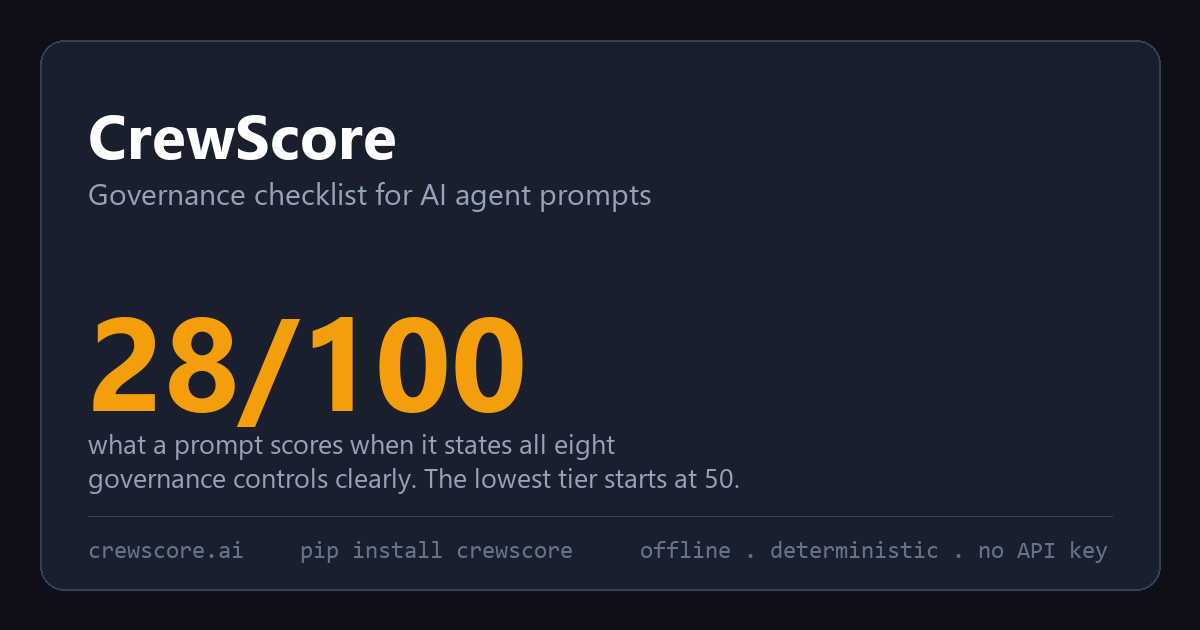
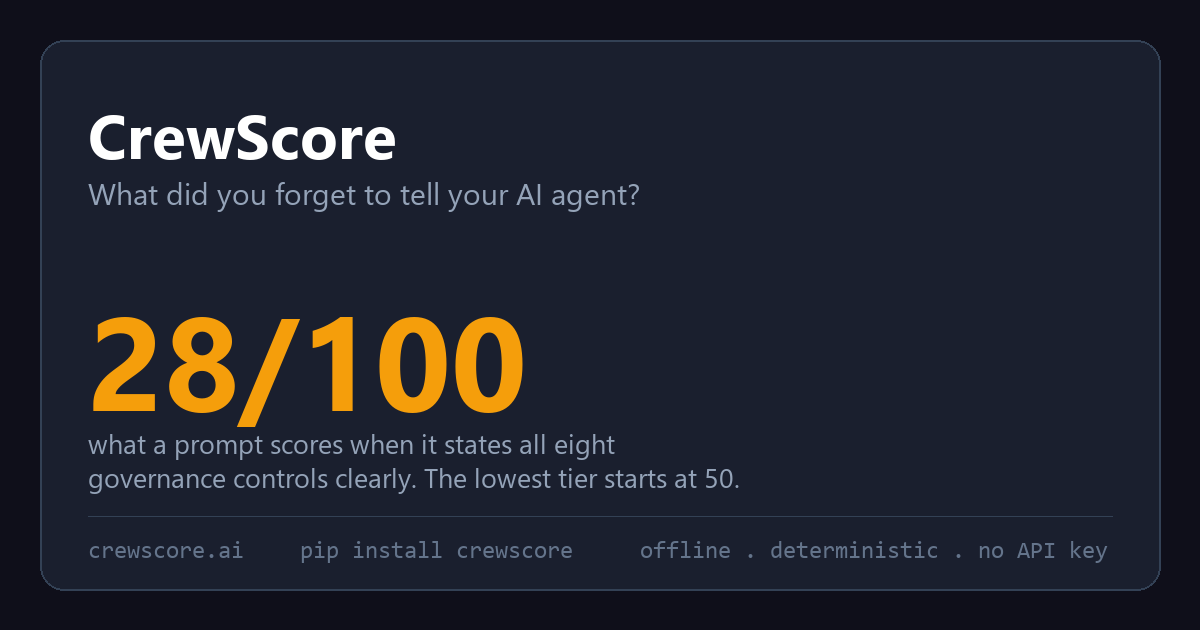
feat(copy): lead with the failure modes, not the compliance category
'Governance checklist' is compliance-department language. The people who
ship agents do not worry about governance - they worry about the agent
doing something expensive, destructive or embarrassing. Our eight
dimensions ARE exactly those failure modes; we were describing concrete
fears in words only an auditor uses.

It is also the more honest framing, not the looser one: 'governance'
implies enterprise assurance we explicitly do not provide, while 'which
failure modes did you forget to write a rule for' is literally what the
regexes check.

New headline across site, README, package metadata, social card and OG
tags: 'What did you forget to tell your AI agent?' with the modes named -
prompt injection, hallucination, runaway cost, missing human approval, no
stop condition.

Nothing about the honesty constraints moved. Coverage-not-quality is still
in the hero, still under the score ring, still in the charter. The 28/100
proof and the validation link are untouched. The tests that pinned the old
wording now pin the substance instead: the failure modes must be named, the
headline must not call the number a score, and the description must not
promise to prevent, protect, secure or guarantee anything.

Changed region(s): [[0.0617, 0.2714, 0.555, 0.3317]]

diff --git a/index.html b/index.html
@@ -3,9 +3,9 @@
 <head>
 <meta charset="UTF-8">
 <meta name="viewport" content="width=device-width, initial-scale=1.0">
-<meta name="description" content="CrewScore - a governance checklist for AI agent prompts. See which controls your prompt states and which it never mentions, in your browser. Coverage, not a quality ranking. No signup. No install.">
-<meta property="og:title" content="CrewScore - governance checklist for agent prompts">
-<meta property="og:description" content="Checklist coverage for agent system prompts: which governance controls the text states and which it does not. Coverage, not a quality ranking. Not a red-team. No signup, no API key.">
+<meta name="description" content="Paste an AI agent system prompt and see which failure modes it never guards against - prompt injection, hallucination, runaway cost, missing human approval. Free, offline, no signup, no API key.">
+<meta property="og:title" content="What did you forget to tell your AI agent?">
+<meta property="og:description" content="Paste a system prompt, see which of eight failure modes it never guards against: prompt injection, hallucination, runaway cost, missing human approval. Offline and deterministic. Not a red-team.">
 <meta property="og:url" content="https://crewscore.ai">
 <meta property="og:type" content="website">
 <meta property="og:site_name" content="CrewScore">
@@ -14,7 +14,7 @@
 <meta property="og:image:height" content="630">
 <meta property="og:image:alt" content="CrewScore. 28/100 - what a prompt scores when it states all eight governance controls clearly. The lowest tier starts at 50.">
 <meta name="twitter:card" content="summary_large_image">
-<meta name="twitter:title" content="CrewScore - governance checklist for agent prompts">
+<meta name="twitter:title" content="What did you forget to tell your AI agent?">
 <meta name="twitter:description" content="A prompt that states all eight governance controls clearly scores 28/100 on our own tool. Coverage, not a quality ranking - and we published why.">
 <meta name="twitter:image" content="https://crewscore.ai/docs/social-card.png">
 <link rel="canonical" href="https://crewscore.ai/">
@@ -23,7 +23,7 @@
 <link rel="preconnect" href="https://fonts.googleapis.com">
 <link rel="preconnect" href="https://fonts.gstatic.com" crossorigin>
 <link href="https://fonts.googleapis.com/css2?family=IBM+Plex+Mono:wght@400;500;600;700&family=IBM+Plex+Sans:wght@400;500;600;700&display=swap" rel="stylesheet">
-<title>CrewScore - Free governance checklist for AI agent prompts (no install)</title>
+<title>CrewScore - what did you forget to tell your AI agent? (free, no install)</title>
 <style>
 :root{
   --bg:#0a0c0b;
@@ -502,9 +502,9 @@ body.sheet-open{overflow:hidden}
   </header>
 
   <section class="hero">
-    <div class="eyebrow">Governance checklist for agent instructions</div>
-    <h2>See which governance rules your prompt does not state</h2>
-    <p class="sub">Paste a prompt in your browser, get the eight controls it states and the ones it never mentions. Same open rules as the CLI. <strong>Not a red-team.</strong>
+    <div class="eyebrow">Free - runs in your browser - nothing leaves the page</div>
+    <h2>What did you forget to tell your AI agent?</h2>
+    <p class="sub">Paste your system prompt. See which of the eight ways agents go wrong it never mentions - <strong>prompt injection, hallucination, runaway cost, no human approval, no stop condition</strong>. Same open rules as the CLI. <strong>Not a red-team.</strong>
       <button type="button" class="linkish" id="link-how-score">How the number is computed</button>
     </p>
     <p class="trust"><strong>Coverage, not a quality ranking.</strong> You can prove that from the shipped rules: a prompt that states all eight governance controls clearly, once each, scores <strong>28/100</strong> - below the lowest tier. Stating every one of them twice reaches only 41/100. A high score is unreachable by clear writing; it needs the same control restated four to six different ways, which is exactly the redundancy our own Context Bloat detector flags. A low score tells you what you have not written down. A high score means the text is present - nothing more. <a href="https://github.com/shmindmaster/crewscore/blob/main/docs/validation.md" target="_blank" rel="noopener">Read the validation study</a>.</p>

diff --git a/tests/test_web_ux.py b/tests/test_web_ux.py
@@ -324,7 +324,14 @@ def test_hero_frames_the_number_as_coverage_not_quality():
     """A visitor who reads nothing but the hero must still learn that the
     number does not rank prompt quality — and see the figure that says so."""
     html = _html()
-    assert "See which governance rules your prompt does not state" in html
+    # The headline speaks to the reader's actual fear - the agent doing
+    # something they never told it not to - rather than to a compliance
+    # department. "Governance" described real failure modes in words only
+    # an auditor uses, and it is also a bigger claim than we make.
+    assert "forget to tell your AI agent" in html
+    for mode in ("prompt injection", "hallucination", "runaway cost"):
+        assert mode in html.lower(), mode
+    # Reframing the pitch must not soften the limit.
     assert "Coverage, not a quality ranking." in html
     # The evidence travels with the claim, not only behind a link. The corpus
     # study was withdrawn; the figure that ships is the one anyone can
@@ -385,7 +392,12 @@ def test_readme_headline_is_a_checklist_not_a_score():
     the length-matched study could not demonstrate."""
     md = _readme()
     assert "Free structural score for AI agent prompts" not in md
-    assert "### A governance checklist for AI agent prompts" in md
+    # Names the failure modes rather than the compliance category, and
+    # still never calls the number a "score" in the headline.
+    assert "forget to tell your AI agent" in md
+    assert "prompt injection" in md.lower()
+    headline = next(line for line in md.splitlines() if line.startswith("### "))
+    assert "score" not in headline.lower(), headline
 
 
 def test_readme_links_validation_study_above_the_fold():

diff --git a/tests/test_rules_catalog.py b/tests/test_rules_catalog.py
@@ -190,8 +190,11 @@ def test_pyproject_description_does_not_overclaim_production_readiness():
     assert "production-readiness" not in lowered
     assert "production readiness" not in lowered
     assert "certif" not in lowered
-    assert "governance guardrail coverage" in lowered
-    assert "configuration smells" in lowered
+    # The description must say what the tool finds, in the words a
+    # developer would use, without claiming it prevents any of it.
+    assert "guardrails" in lowered or "failure modes" in lowered
+    for promise in ("prevent", "protect", "secure your", "guarantee"):
+        assert promise not in lowered, promise
 
 
 def test_scoring_method_constant_honest():

diff --git a/scripts/make_social_card.py b/scripts/make_social_card.py
@@ -80,7 +80,7 @@ def main() -> int:
     d.text((88, 92), "CrewScore", font=f_brand, fill=WHITE)
     d.text(
         (88, 172),
-        "Governance checklist for AI agent prompts",
+        "What did you forget to tell your AI agent?",
         font=f_tag,
         fill=MUTED,
     )

diff --git a/README.md b/README.md
@@ -2,7 +2,9 @@
 
 # CrewScore
 
-### A governance checklist for AI agent prompts — coverage, not a quality score
+### What did you forget to tell your AI agent?
+
+**Find the guardrails your agent prompt never mentions** — prompt injection, hallucination, runaway cost, missing human approval, no stop condition.
 
 [![License: MIT](https://img.shields.io/badge/License-MIT-yellow.svg)](LICENSE)
 [![Python](https://img.shields.io/badge/Python-3.11+-green.svg)](https://python.org)
